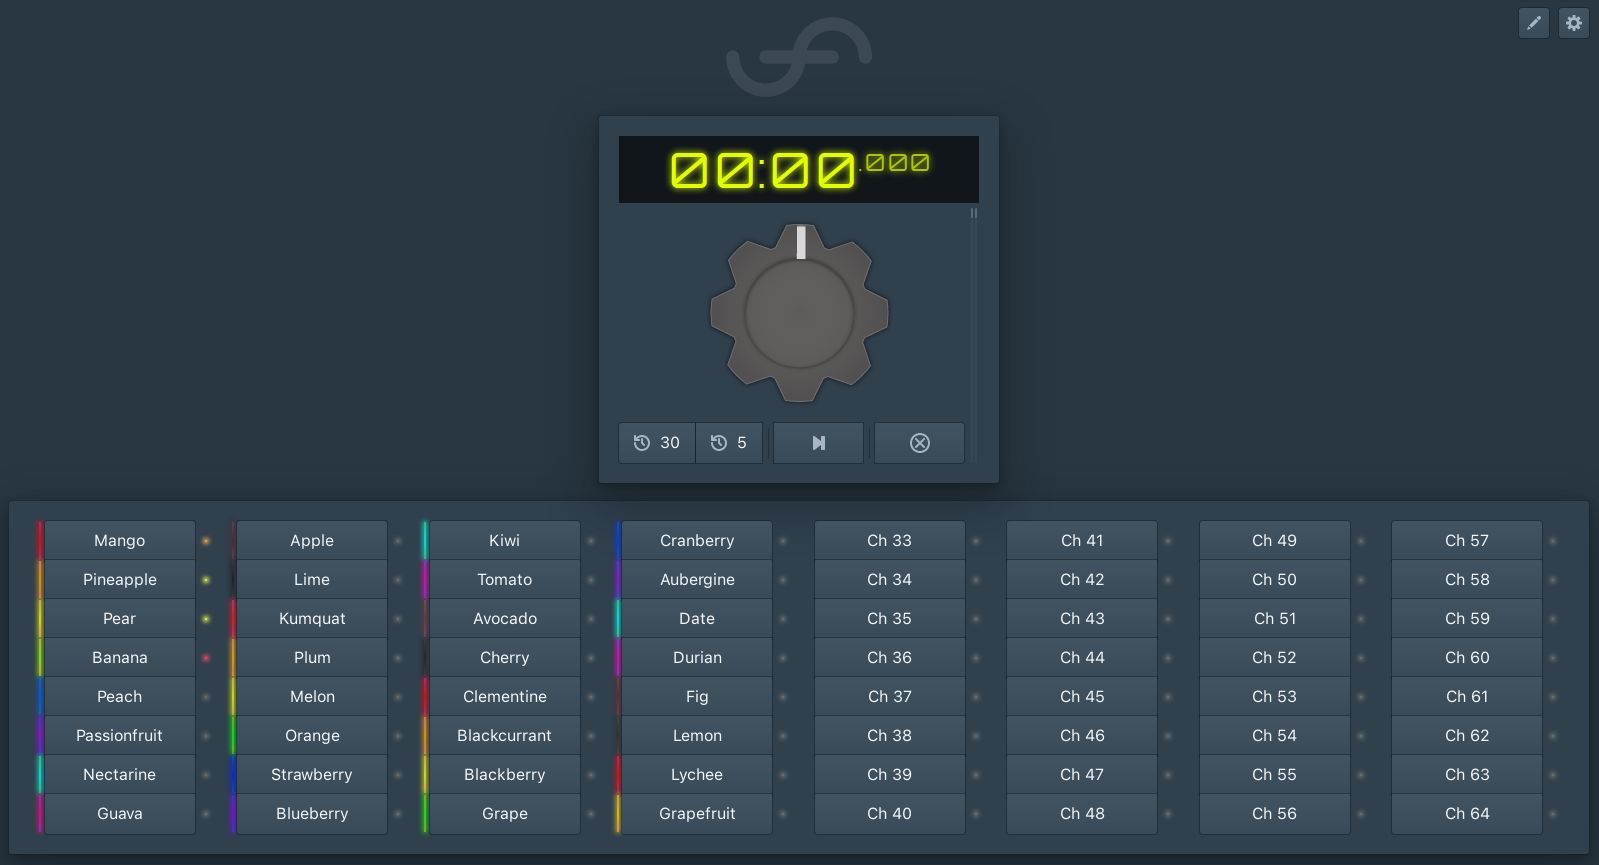
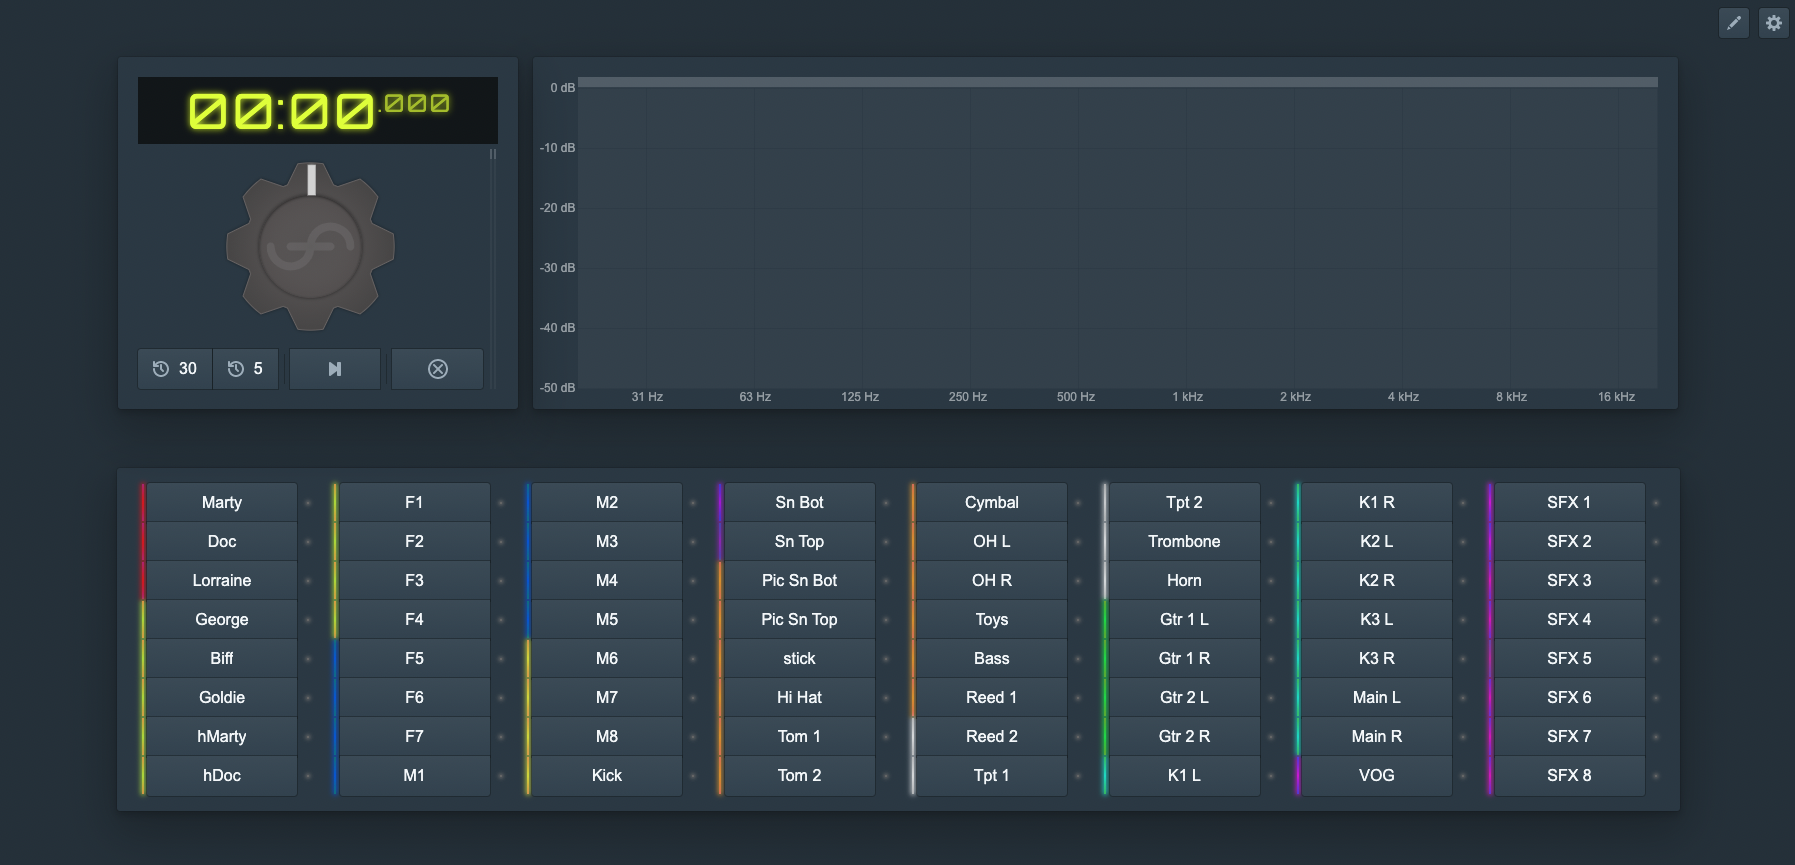
updated docs for v1.2

diff --git a/docs/rewind/rta-region.md b/docs/rewind/rta-region.md
@@ -1,0 +1,16 @@
+---
+sidebar_position: 4
+---
+
+# RTA Region
+![RTA Region](/img/rewind/rta-region.png)
+
+The RTA displays a real-time frequency spectrum of the audio currently being outputted, if the user has a professional or production license. The yellow bars represent the current level, and the white peak indicators decay at a rate of 10dB/s.
+
+It is important to note that the RTA only responds to the left output channel and features no A or C type weighting.
+
+# RTA specs
+
+The RTA has 60 bars between 20 Hz and 20 kHz each of width 1/6 of an octave.
+
+The RTA uses a 16384 sample FFT window size and a 50% overlap. It uses a Hann/Hanning window and the height of each bar is determined by the greatest height of any point within it.

diff --git a/docs/rewind/overview.md b/docs/rewind/overview.md
@@ -5,8 +5,9 @@ sidebar_position: 3
 # Overview
 ![Main Screenshot](/img/rewind/overview-screenshot.png)
 
-So, what have we here? The interface is split into two key parts:
-1. At the **top**, the [Time Control Region](time-control-region),
+So, what have we here? The interface is split into three key parts:
+1. At the **top left**, the [Time Control Region](time-control-region),
+1. At the **top right** the [RTA Region](rta-region),
 1. and at the **bottom**, the [Channel Selection Region](channel-selection-region).
 
 In the top right-hand corner there are two buttons that open:

diff --git a/docs/rewind/release_notes.md b/docs/rewind/release_notes.md
@@ -6,7 +6,16 @@ sidebar_position: 11
 
 Download the latest version of Fourier Rewind [here](https://fourieraudio.com/support).
 
-## Latest Release - v1.1.0
+## Latest Release - v1.2.0
+30th March 2022
+
+### New Features
+* RTA added for professional and production license holders.
+
+### Bug Fixes
+* Fixed bug where rewind would fail to report a newer version being available to the user.
+
+## v1.1.0
 7th March 2022
 
 ### New Features
